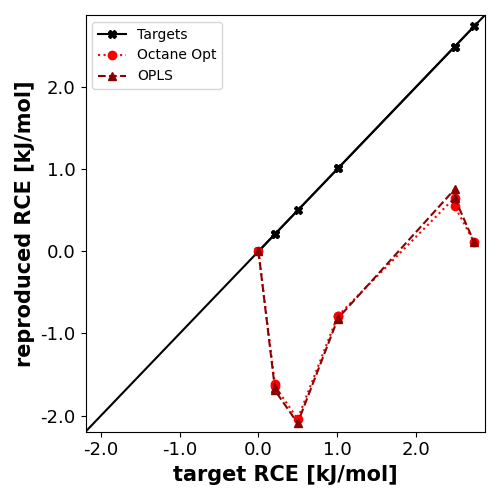
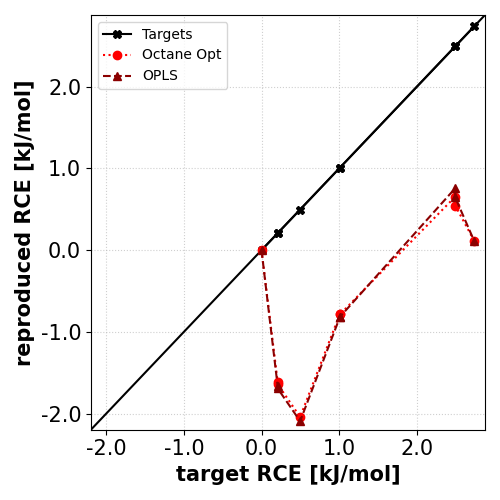
updated plotting

diff --git a/40_analysis/22_plotRCE_preOpt-vs-opt-vs-targets.py b/40_analysis/22_plotRCE_preOpt-vs-opt-vs-targets.py
@@ -134,7 +134,7 @@ def mkScatterPlot(df, RCEtargets, preOptRCE, sort, substance):
   plt.legend()
   plt.tight_layout()
   if saveOrShow == 'save':
-    plt.savefig(f'RCE_targets-vs-preOpt-vs-Opt-{substance}_{sort}_1BB.png', dpi=100)
+    plt.savefig(f'RCE_targets-vs-preOpt-vs-Opt-{substance}_{sort}_1BB.png', dpi=200)
   
   plt.figure(figsize=(5, 5))
   plt.plot(srtTargets2BB, srtTargets2BB, '-', color='#000000', label="Targets")
@@ -171,7 +171,7 @@ def mkScatterPlot(df, RCEtargets, preOptRCE, sort, substance):
   plt.tight_layout()
  
   if saveOrShow == 'save':
-    plt.savefig(f'RCE_targets-vs-preOpt-vs-Opt-{substance}_{sort}_2BB.png', dpi=100)
+    plt.savefig(f'RCE_targets-vs-preOpt-vs-Opt-{substance}_{sort}_2BB.png', dpi=200)
   
   return plt
 
@@ -274,18 +274,19 @@ def mkScatterPlot1(df, RCEtargets, preOptRCE, substance):
   
     plt.plot(srtTargets1BB, srtpreOpt1BB, '-o', color='#ff0000', label="pre optimization")
   
-    plt.xlabel('target RCE [kJ/mol]', fontsize=15, fontweight='bold')
-    plt.ylabel('reproduced RCE [kJ/mol]', fontsize=15, fontweight='bold')
+    plt.xlabel('target RCE (QM) [kJ/mol]', fontsize=18, fontweight='bold')
+    plt.ylabel('reproduced RCE (MM) [kJ/mol]', fontsize=16, fontweight='bold')
     #plt.xlim([min(targets1BB.min(), preOpt1BB.min()), max(targets1BB.max(), preOpt1BB.max())])
     #plt.ylim([min(targets1BB.min(), preOpt1BB.min()), max(targets1BB.max(), preOpt1BB.max())])
-    plt.xticks(ticks=[-3.0, -2.0, -1.0, 0.0, 1.0, 2.0], labels=["-3.0", "-2.0", "-1.0", "0.0", "1.0", "2.0"],fontsize=13)
-    plt.yticks(ticks=[-3.0, -2.0, -1.0, 0.0, 1.0, 2.0], labels=["-3.0", "-2.0", "-1.0", "0.0", "1.0", "2.0"],fontsize=13)
+    plt.xticks(ticks=[-3.0, -2.0, -1.0, 0.0, 1.0, 2.0], labels=["-3.0", "-2.0", "-1.0", "0.0", "1.0", "2.0"],fontsize=15)
+    plt.yticks(ticks=[-3.0, -2.0, -1.0, 0.0, 1.0, 2.0], labels=["-3.0", "-2.0", "-1.0", "0.0", "1.0", "2.0"],fontsize=15)
     plt.xlim([minRCE1BB, maxRCE1BB])
     plt.ylim([minRCE1BB, maxRCE1BB])
+    plt.grid(True, linestyle=':', alpha=0.6)
     plt.legend()
     plt.tight_layout()
     if saveOrShow == 'save':
-      plt.savefig(f'RCE_targets-vs-preOpt-vs-Opt-{substance}_sort-by-density_1BB.png', dpi=100)
+      plt.savefig(f'RCE_targets-vs-preOpt-vs-Opt-{substance}_sort-by-density_1BB.png', dpi=200)
     
     plt.figure(figsize=(5, 5))
     plt.plot([minRCE2BB, maxRCE2BB], [minRCE2BB, maxRCE2BB], '-', color='#000000')
@@ -339,12 +340,13 @@ def mkScatterPlot1(df, RCEtargets, preOptRCE, substance):
       else:
         plt.plot(srtTargets2BB, srtThisRCEs, 'x', ls='dotted', color='#2ECC71')
     plt.plot(srtTargets2BB, srtpreOpt2BB, '-o', color='#ff0000', label="pre optimization")
-    plt.xlabel('target RCE [kJ/mol]', fontsize=15, fontweight='bold')
-    plt.ylabel('reproduced RCE [kJ/mol]', fontsize=15, fontweight='bold')
-    plt.xticks(fontsize=13)
-    plt.yticks(fontsize=13)
+    plt.xlabel('target RCE (QM) [kJ/mol]', fontsize=18, fontweight='bold')
+    plt.ylabel('reproduced RCE (MM) [kJ/mol]', fontsize=16, fontweight='bold')
+    plt.xticks(fontsize=15)
+    plt.yticks(fontsize=15)
     plt.xlim([minRCE2BB, maxRCE2BB])
     plt.ylim([minRCE2BB, maxRCE2BB])
+    plt.grid(True, linestyle=':', alpha=0.6)
     plt.legend()
     plt.tight_layout()
  
@@ -420,18 +422,19 @@ def mkScatterPlot2(df, RCEtargets, preOptRCE, substance):
         plt.plot(srtTargets1BB, srtThisRCEs, 'x', ls='dotted', color='#D55E00')
 
     plt.plot(srtTargets1BB, srtpreOpt1BB, '-o', color='#ff0000', label="pre optimization")
-    plt.xlabel('target RCE [kJ/mol]', fontsize=15, fontweight='bold')
-    plt.ylabel('reproduced RCE [kJ/mol]', fontsize=15, fontweight='bold')
+    plt.xlabel('target RCE (QM) [kJ/mol]', fontsize=18, fontweight='bold')
+    plt.ylabel('reproduced RCE (MM) [kJ/mol]', fontsize=16, fontweight='bold')
     #plt.xlim([min(targets1BB.min(), preOpt1BB.min()), max(targets1BB.max(), preOpt1BB.max())])
     #plt.ylim([min(targets1BB.min(), preOpt1BB.min()), max(targets1BB.max(), preOpt1BB.max())])
-    plt.xticks(ticks=[-2.0, -1.0, 0.0, 1.0, 2.0], labels=["-2.0", "-1.0", "0.0", "1.0", "2.0"],fontsize=13)
-    plt.yticks(ticks=[-2.0, -1.0, 0.0, 1.0, 2.0], labels=["-2.0", "-1.0", "0.0", "1.0", "2.0"],fontsize=13)
+    plt.xticks(ticks=[-2.0, -1.0, 0.0, 1.0, 2.0], labels=["-2.0", "-1.0", "0.0", "1.0", "2.0"],fontsize=15)
+    plt.yticks(ticks=[-2.0, -1.0, 0.0, 1.0, 2.0], labels=["-2.0", "-1.0", "0.0", "1.0", "2.0"],fontsize=15)
     plt.xlim([minRCE1BB, maxRCE1BB])
     plt.ylim([minRCE1BB, maxRCE1BB])
+    plt.grid(True, linestyle=':', alpha=0.6)
     plt.legend()
     plt.tight_layout()
     if saveOrShow == 'save':
-      plt.savefig(f'RCE_targets-vs-preOpt-vs-Opt-{substance}.png', dpi=100)
+      plt.savefig(f'RCE_targets-vs-preOpt-vs-Opt-{substance}.png', dpi=200)
     
   if substance == '2-bromobutane':
     DensMAPENNR = df[(df["sort"] == 'Dens2SimMAPE')]
@@ -471,17 +474,18 @@ def mkScatterPlot2(df, RCEtargets, preOptRCE, substance):
       else:
         plt.plot(srtTargets2BB, srtThisRCEs, 'x', ls='dotted', color='#1B4F72')
     plt.plot(srtTargets2BB, srtpreOpt2BB, '-o', color='#ff0000', label="pre optimization")
-    plt.xlabel('target RCE [kJ/mol]', fontsize=15, fontweight='bold')
-    plt.ylabel('reproduced RCE [kJ/mol]', fontsize=15, fontweight='bold')
-    plt.xticks(fontsize=13)
-    plt.yticks(fontsize=13)
+    plt.xlabel('target RCE (QM) [kJ/mol]', fontsize=18, fontweight='bold')
+    plt.ylabel('reproduced RCE (MM) [kJ/mol]', fontsize=16, fontweight='bold')
+    plt.xticks(fontsize=15)
+    plt.yticks(fontsize=15)
     plt.xlim([minRCE2BB, maxRCE2BB])
     plt.ylim([minRCE2BB, maxRCE2BB])
+    plt.grid(True, linestyle=':', alpha=0.6)
     plt.legend()
     plt.tight_layout()
  
     if saveOrShow == 'save':
-      plt.savefig(f'RCE_targets-vs-preOpt-vs-Opt-{substance}.png', dpi=100)
+      plt.savefig(f'RCE_targets-vs-preOpt-vs-Opt-{substance}.png', dpi=200)
   
   return plt
 
@@ -626,7 +630,7 @@ if __name__ == "__main__":
   #print(f'{dfSummary2Bro}')
   
   
-  #plt = mkScatterPlot1(dfSummaryBoth, RCEtargets, preOptRCE, 'both')
+  plt = mkScatterPlot1(dfSummaryBoth, RCEtargets, preOptRCE, 'both')
   plt = mkScatterPlot2(dfSummary1Bro, RCEtargets, preOptRCE, '1-bromobutane')
   plt = mkScatterPlot2(dfSummary2Bro, RCEtargets, preOptRCE, '2-bromobutane')
   if saveOrShow == 'show':

diff --git a/40_analysis/21_showBestOptResults.py b/40_analysis/21_showBestOptResults.py
@@ -384,7 +384,8 @@ def mkPlotScatter1(df, saveOrShow, substance):
   plt.ylim(ylims)
   plt.xticks(fontsize=15)
   plt.yticks(fontsize=15)
-  plt.legend()
+  plt.grid(True, linestyle=':', alpha=0.6)
+  plt.legend(loc='best', fontsize=16)
   plt.tight_layout()
   
   if saveOrShow == 'save':
@@ -438,7 +439,8 @@ def mkPlotScatter2(df, saveOrShow, substance):
   plt.ylim(ylims)
   plt.xticks(fontsize=15)
   plt.yticks(fontsize=15)
-  plt.legend()
+  plt.grid(True, linestyle=':', alpha=0.6)
+  plt.legend(loc='best', fontsize=16)
   plt.tight_layout()
   
   if saveOrShow == 'save':
@@ -561,14 +563,14 @@ if __name__ == "__main__":
   #print(f'{dfSummary2Bro}')
   
  
-  plt = mkPlotPC3(dfSummaryBoth, 'density', saveOrShow, 'both')
-  plt = mkPlotPC3(dfSummaryBoth, 'RCE', saveOrShow, 'both')
-  plt = mkPlotPC2(dfSummaryBoth, 'both')
+  #plt = mkPlotPC3(dfSummaryBoth, 'density', saveOrShow, 'both')
+  #plt = mkPlotPC3(dfSummaryBoth, 'RCE', saveOrShow, 'both')
+  #plt = mkPlotPC2(dfSummaryBoth, 'both')
   
-  #plt = mkPlotScatter1(dfSummary1Bro, saveOrShow, '1-bromobutane')
-  #plt = mkPlotScatter2(dfSummary1Bro, saveOrShow, '1-bromobutane')
-  #plt = mkPlotScatter1(dfSummary2Bro, saveOrShow, '2-bromobutane')
-  #plt = mkPlotScatter2(dfSummary2Bro, saveOrShow, '2-bromobutane')
+  plt = mkPlotScatter1(dfSummary1Bro, saveOrShow, '1-bromobutane')
+  plt = mkPlotScatter2(dfSummary1Bro, saveOrShow, '1-bromobutane')
+  plt = mkPlotScatter1(dfSummary2Bro, saveOrShow, '2-bromobutane')
+  plt = mkPlotScatter2(dfSummary2Bro, saveOrShow, '2-bromobutane')
   if saveOrShow == 'show':
     plt.show()
         

diff --git a/40_analysis/plots_RCE_preOpt/plotRCE.py b/40_analysis/plots_RCE_preOpt/plotRCE.py
@@ -87,8 +87,9 @@ if __name__ == "__main__":
   plt.xlabel('target RCE [kJ/mol]', fontsize=15, fontweight='bold')
   plt.ylabel('reproduced RCE [kJ/mol]', fontsize=15, fontweight='bold')
   ticks = [-2.0, -1.0, 0.0, 1.0, 2.0]
-  plt.xticks(ticks, ["-2.0", "-1.0", "0.0", "1.0", "2.0"], fontsize=13)
-  plt.yticks(ticks, ["-2.0", "-1.0", "0.0", "1.0", "2.0"], fontsize=13)
+  plt.xticks(ticks, ["-2.0", "-1.0", "0.0", "1.0", "2.0"], fontsize=15)
+  plt.yticks(ticks, ["-2.0", "-1.0", "0.0", "1.0", "2.0"], fontsize=15)
+  plt.grid(True, linestyle=':', alpha=0.6)
   plt.xlim([minRCE, maxRCE])
   plt.ylim([minRCE, maxRCE])
   plt.legend()
@@ -108,8 +109,9 @@ if __name__ == "__main__":
   plt.xlabel('target RCE [kJ/mol]', fontsize=15, fontweight='bold')
   plt.ylabel('reproduced RCE [kJ/mol]', fontsize=15, fontweight='bold')
   ticks = [0.0, 0.2, 0.4, 0.6, 0.8, 1.0, 1.2, 1.4]
-  plt.xticks(ticks, fontsize=13)
-  plt.yticks(ticks, fontsize=13)
+  plt.xticks(ticks, fontsize=15)
+  plt.yticks(ticks, fontsize=15)
+  plt.grid(True, linestyle=':', alpha=0.6)
   plt.xlim([minRCE, maxRCE])
   plt.ylim([minRCE, maxRCE])
   plt.legend()

diff --git a/00_density_parametersampling/01_C4Br_C3Br/MDSim_error-estimates/01_getErrEstim.py b/00_density_parametersampling/01_C4Br_C3Br/MDSim_error-estimates/01_getErrEstim.py
@@ -66,11 +66,14 @@ for n in range(len(statisticsFiles)):
   plt.xlabel("Rel. Uncertainty [%]", fontweight='bold', fontsize=18)
   plt.ylabel("Occurence", fontweight='bold', fontsize=18)
   plt.xticks([0.0, 0.5, 1.0, 1.5, 2.0, 2.5, 3.0])
+  plt.ylim([0, 9])
+  plt.yticks([0, 1, 2, 3, 4, 5, 6, 7, 8])
+  
   plt.tick_params(axis="x", labelsize=15)
   plt.tick_params(axis="y", labelsize=0)
   #plt.title("Relative Error Distributions")
   plt.legend()
-  plt.grid(True)
+  plt.grid(True, linestyle=':', alpha=0.6)
   plt.tight_layout()
   if saveOrShow == "show":
     plt.show()
